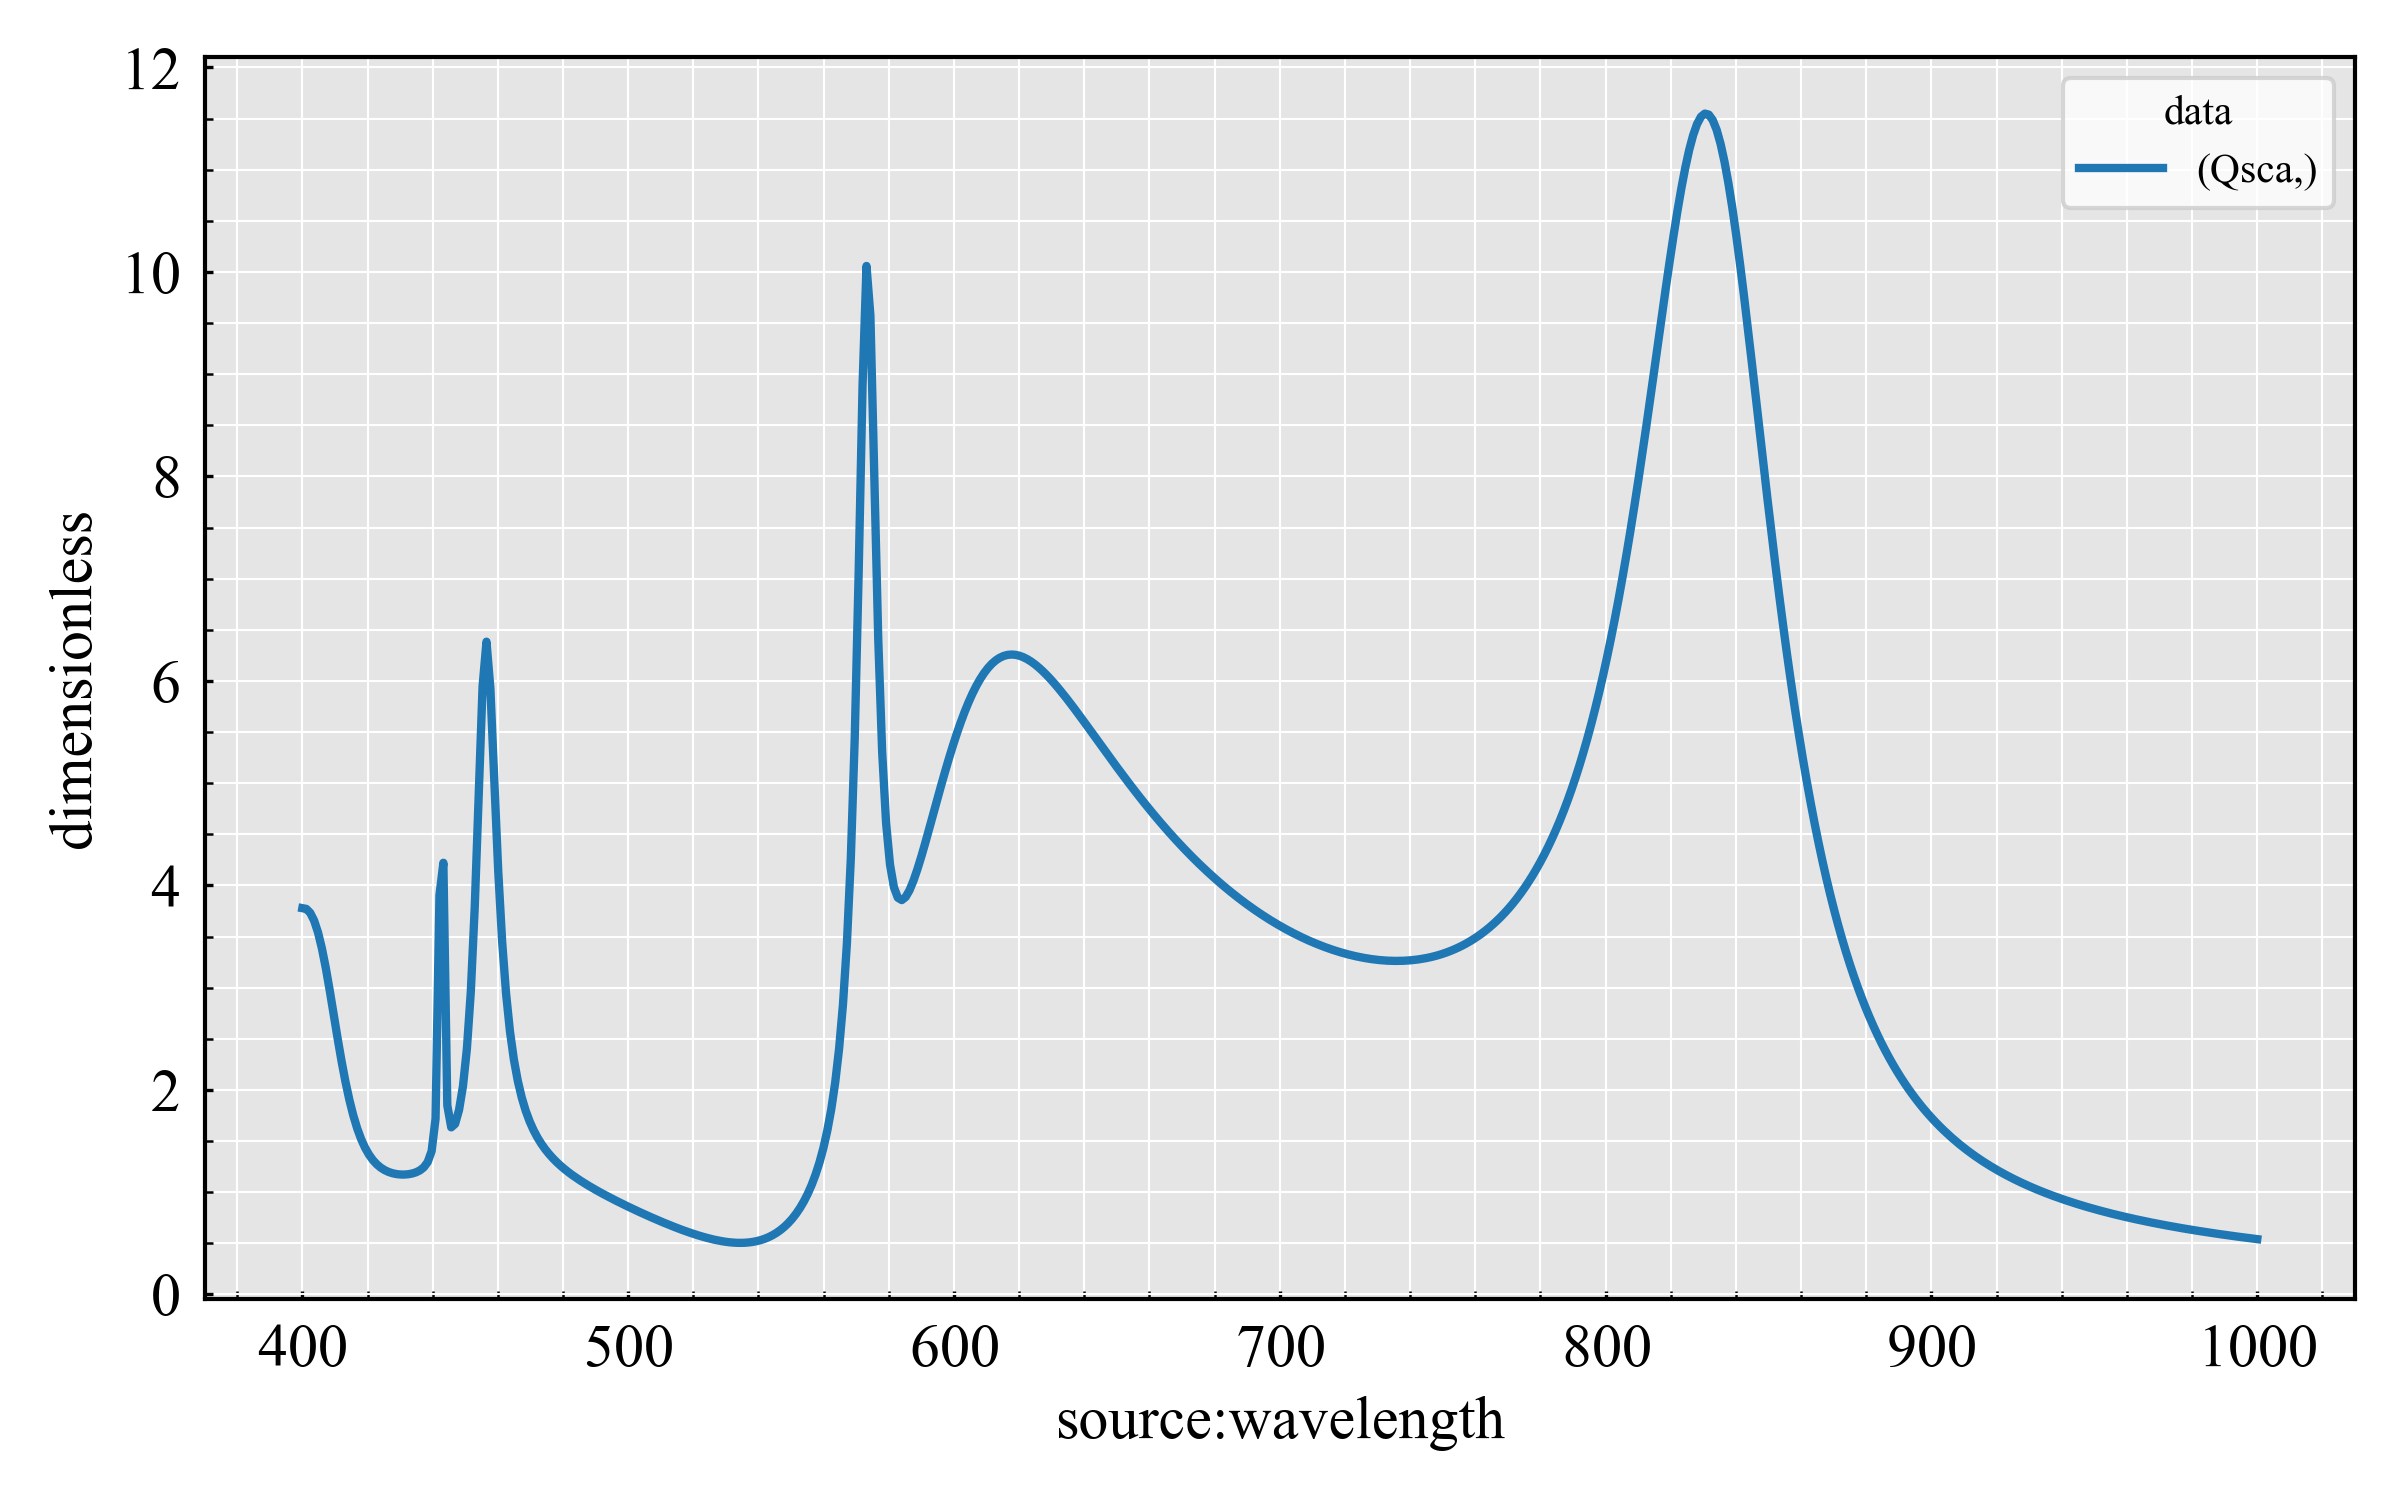
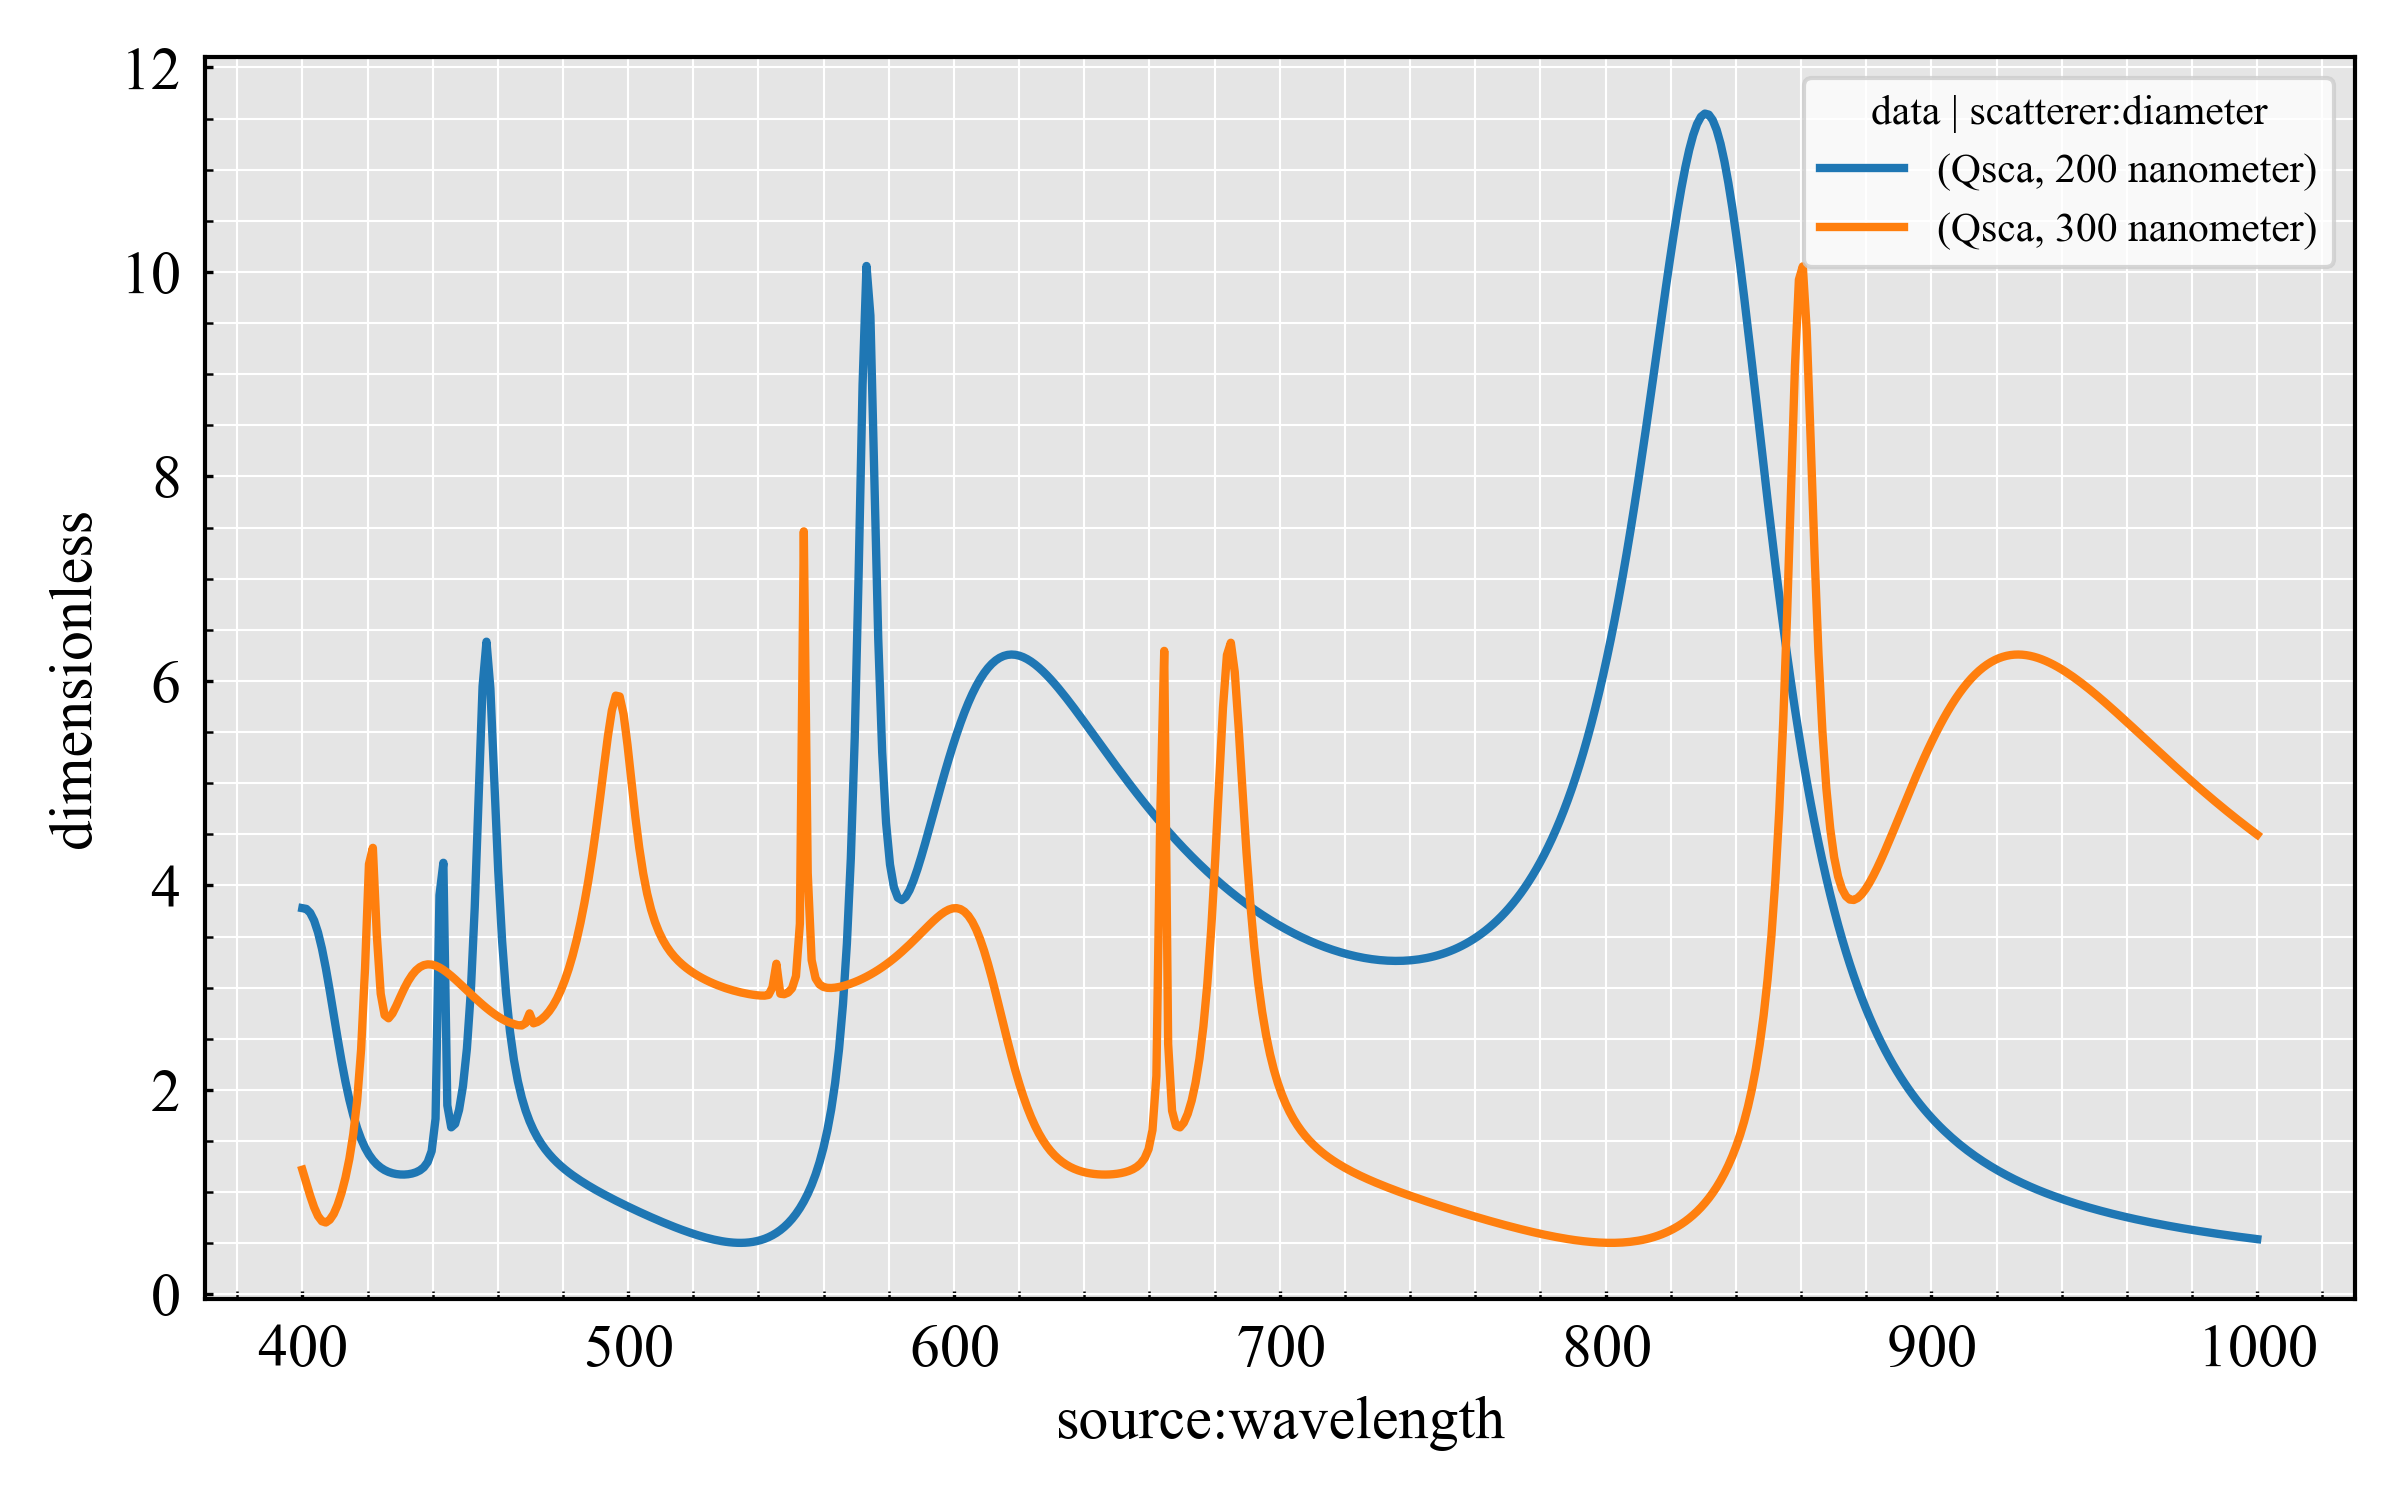
update readme

diff --git a/docs/readme_figures/figure_0.py b/docs/readme_figures/figure_0.py
@@ -16,7 +16,7 @@ source = Gaussian(
 )
 
 scatterer = Sphere(
-    diameter=[200] * ureg.nanometer,
+    diameter=[200, 300] * ureg.nanometer,
     property=[4] * ureg.RIU,
     medium_property=1 * ureg.RIU,
     source=source,
@@ -25,5 +25,5 @@ scatterer = Sphere(
 experiment = Setup(scatterer=scatterer, source=source)
 df = experiment.get("Qsca")
 df.plot(
-    x="source:wavelength", show=False, save_as=f"{dir_path}/../images/resonances.png"
+    x="source:wavelength", show=True, save_as=f"{dir_path}/../images/resonances.png"
 )

diff --git a/README.rst b/README.rst
@@ -67,7 +67,7 @@ Below is a short example computing the scattering efficiency of a sphere.
    )
 
    scatterer = Sphere(
-       diameter=[200] * ureg.nanometer,
+       diameter=[200, 300] * ureg.nanometer,
        property=[4] * ureg.RIU,
        medium_property=1 * ureg.RIU,
        source=source,
